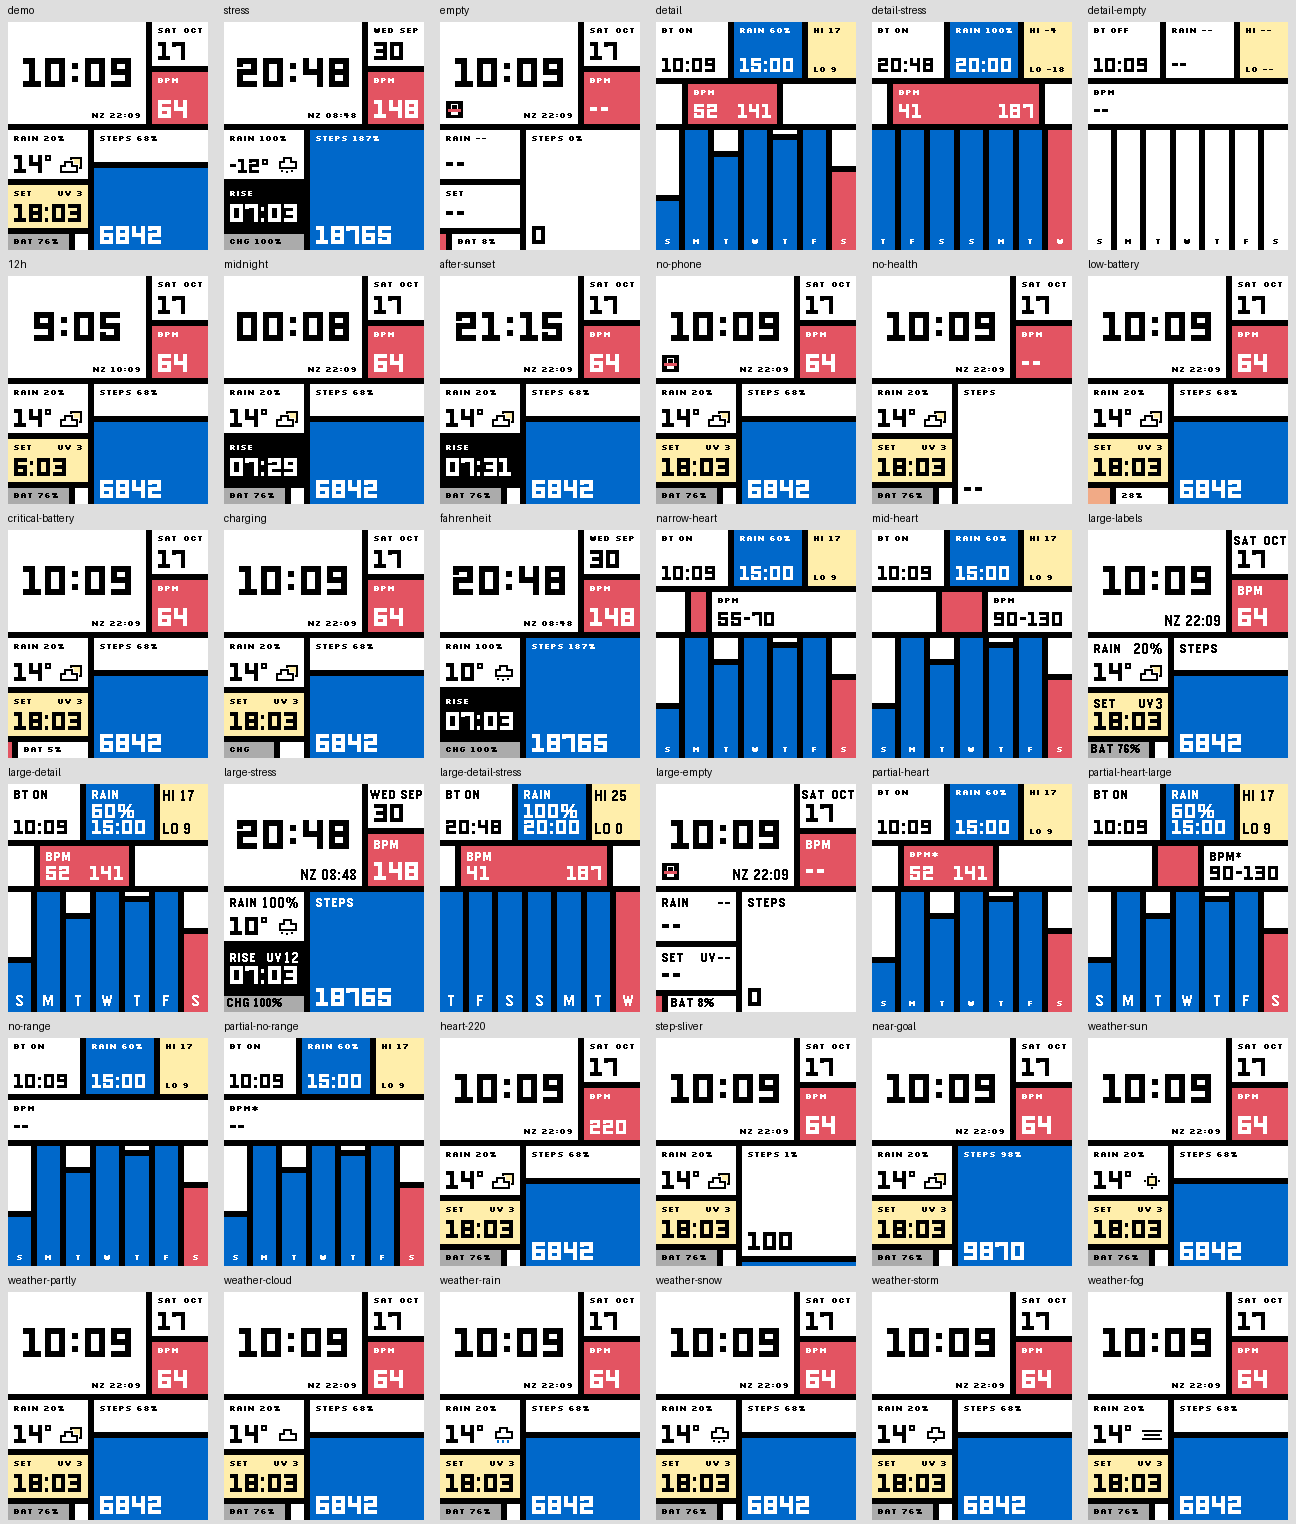
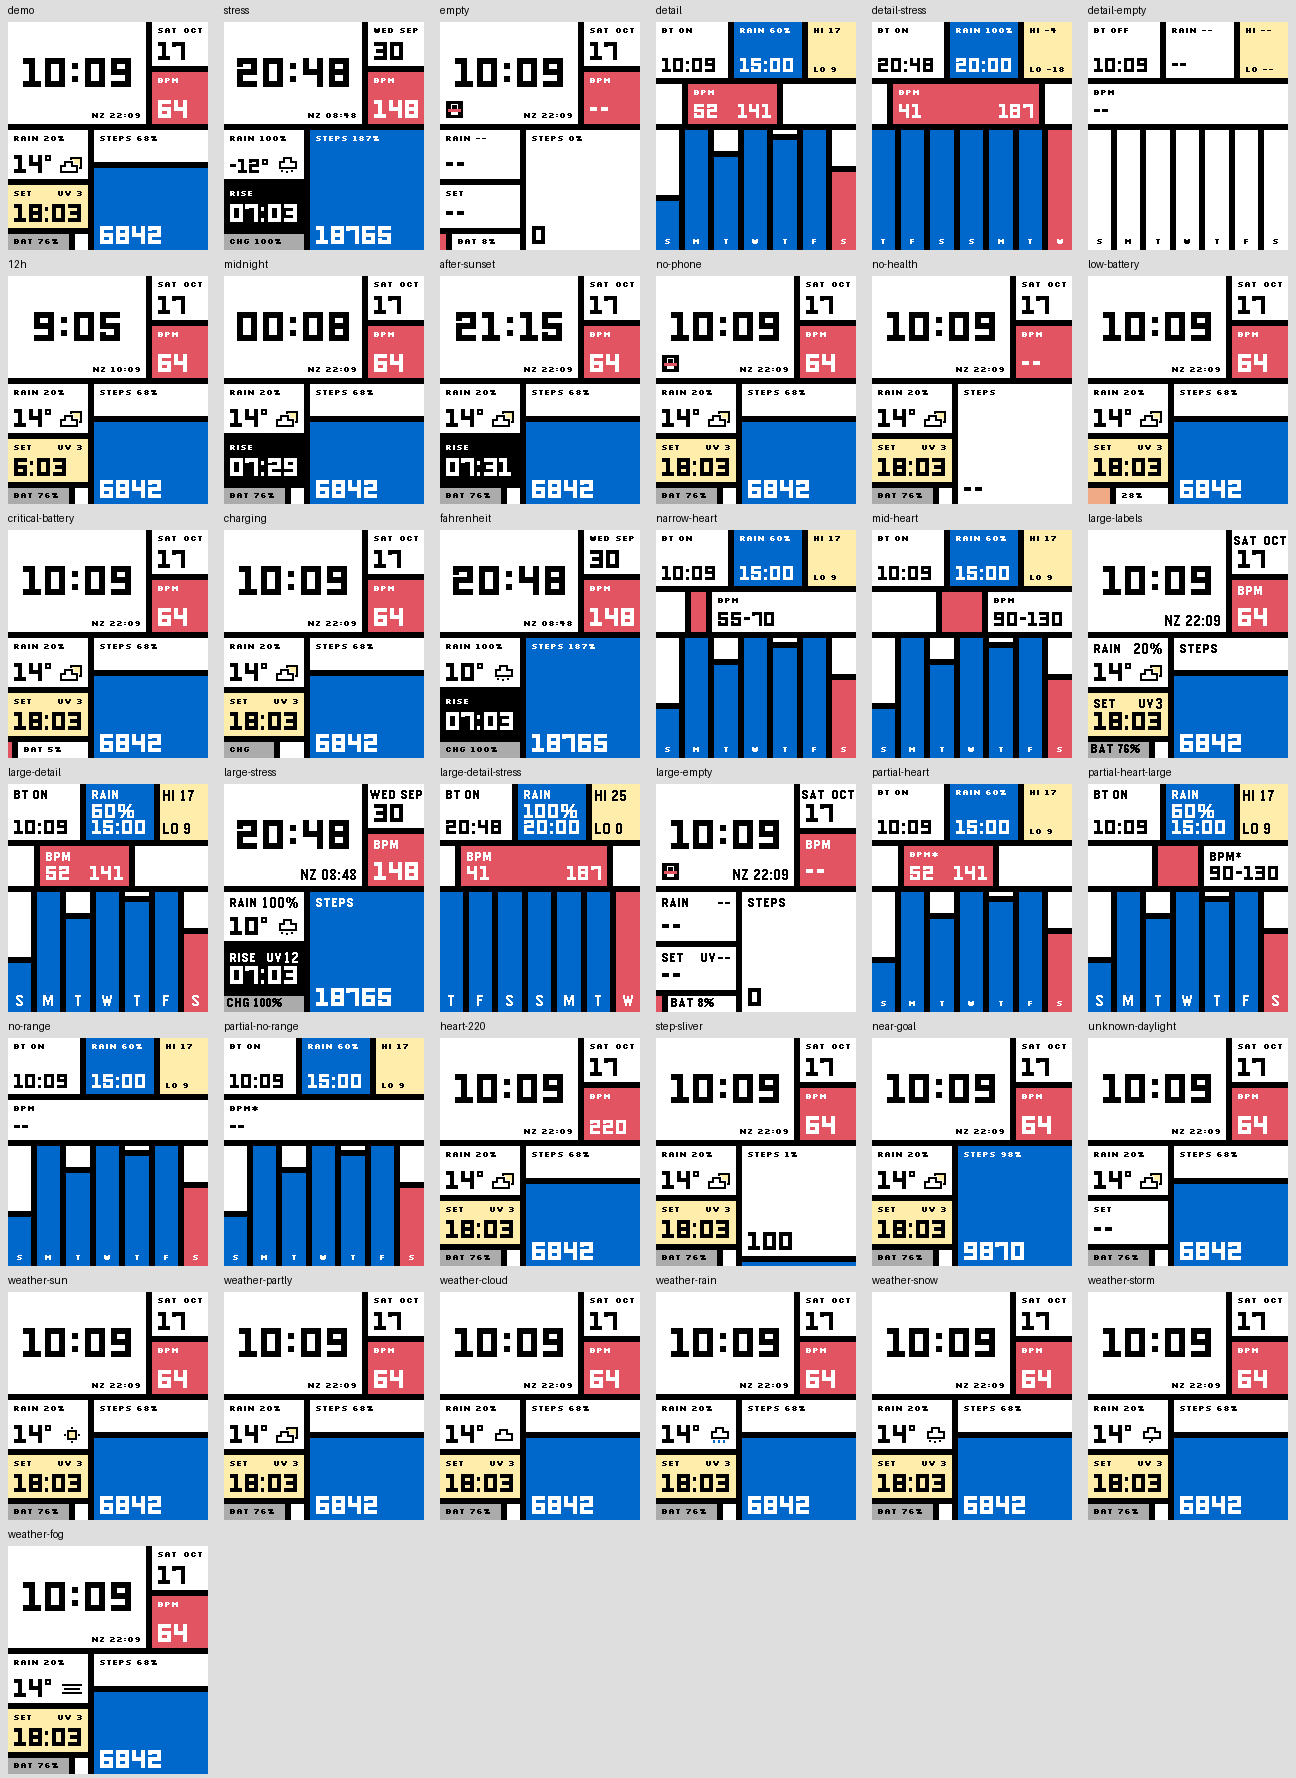
Use shared behaviour APIs and emulator utilities from kit 2.2.0

diff --git a/src/c/lab_data.c b/src/c/lab_data.c
@@ -8,15 +8,11 @@ static int preview_int(const char *name,int fallback) {
 }
 #endif
 
-#ifndef LAB_HOST_RENDER
 #include "kit/kit.h"
-#endif
 
 #define DEMO_EPOCH 1792228140    // Sat 17 Oct 2026 10:09 BST (09:09 UTC)
 #define STRESS_EPOCH 1790797680  // Wed 30 Sep 2026 20:48 BST (19:48 UTC)
 #define DEMO_UTC_OFFSET 3600     // the demo/stress clock is UK summer time
-#define KNOWN_NEW_MOON 947182440 // 2000-01-06 18:14 UTC
-#define SYNODIC_SECONDS 2551443
 
 static const uint16_t DEMO_STEPS_BY_HOUR[24] = {
   0, 0, 0, 0, 0, 0, 120, 980, 1640, 2612, 1490
@@ -60,64 +56,12 @@ static const uint8_t STRESS_HR_BY_HOUR[24] = {
   151, 148
 };
 
-// --- Calendar helpers (NZ daylight saving, ported from Signal Deck) --------
-
-static int day_of_week(int year, int month, int day) {
-  static const int offsets[] = {0, 3, 2, 5, 0, 3, 5, 1, 4, 6, 2, 4};
-  if (month < 3) {
-    year--;
-  }
-  return (year + year / 4 - year / 100 + year / 400 + offsets[month - 1] + day) % 7;
-}
-
-static int first_weekday_in_month(int year, int month, int weekday) {
-  return 1 + ((weekday - day_of_week(year, month, 1) + 7) % 7);
-}
-
-static int last_weekday_in_month(int year, int month, int last_day, int weekday) {
-  return last_day - ((day_of_week(year, month, last_day) - weekday + 7) % 7);
-}
-
-static bool nz_is_dst(int year, int month, int day) {
-  if (month >= 10 || month <= 3) {
-    return true;
-  }
-  if (month >= 5 && month <= 8) {
-    return false;
-  }
-  if (month == 9) {
-    return day >= last_weekday_in_month(year, 9, 30, 0);
-  }
-  return day < first_weekday_in_month(year, 4, 0);
-}
+// --- Shared calendar projection for fixed screenshot scenarios --------
 
 static void fill_world_time(LabData *d) {
-  snprintf(d->world_label, sizeof(d->world_label), "NZ");
-  time_t standard = d->epoch + 12 * 3600;
-  struct tm standard_tm = *gmtime(&standard);
-  int dst = nz_is_dst(standard_tm.tm_year + 1900, standard_tm.tm_mon + 1,
-                      standard_tm.tm_mday) ? 3600 : 0;
-  time_t world = standard + dst;
-  struct tm world_tm = *gmtime(&world);
-  d->world_hour = world_tm.tm_hour;
-  d->world_min = world_tm.tm_min;
-  if (world_tm.tm_year != d->now.tm_year) {
-    d->world_day_delta = world_tm.tm_year > d->now.tm_year ? 1 : -1;
-  } else {
-    d->world_day_delta = lab_clamp(world_tm.tm_yday - d->now.tm_yday, -1, 1);
-  }
+  kit_world_fill(d,0);
 }
 
-static void fill_moon(LabData *d) {
-  int32_t since = (int32_t)((d->epoch - KNOWN_NEW_MOON) % SYNODIC_SECONDS);
-  if (since < 0) {
-    since += SYNODIC_SECONDS;
-  }
-  d->moon_phase_e3 = (int)(((int64_t)since * 1000) / SYNODIC_SECONDS);
-  int32_t angle = (int32_t)(((int64_t)since * TRIG_MAX_ANGLE) / SYNODIC_SECONDS);
-  d->moon_illum_pct =
-      (int)(((int64_t)(TRIG_MAX_RATIO - cos_lookup(angle)) * 50) / TRIG_MAX_RATIO);
-}
 
 static void set_fixed_time(LabData *d, time_t epoch) {
   d->epoch = epoch;
@@ -221,18 +165,6 @@ __attribute__((unused)) static void fill_empty(LabData *d) {
   d->weather_code = -1;
 }
 
-#ifndef LAB_HOST_RENDER
-__attribute__((unused)) static void fill_live(LabData *d) {
-  d->epoch = time(NULL);
-  d->now = *localtime(&d->epoch);
-  d->minute_of_day = d->now.tm_hour * 60 + d->now.tm_min;
-  BatteryChargeState battery = battery_state_service_peek();
-  d->battery_pct = battery.charge_percent;
-  d->charging = battery.is_charging;
-  d->bt_connected = connection_service_peek_pebble_app_connection();
-  kit_fill(d);
-}
-#endif
 
 void lab_data_refresh(LabData *d) {
   memset(d, 0, sizeof(*d));
@@ -241,8 +173,7 @@ void lab_data_refresh(LabData *d) {
 #elif LAB_SCENARIO == LAB_EMPTY
   fill_empty(d);
 #elif LAB_SCENARIO == LAB_LIVE
-  fill_live(d);
-  fill_moon(d);
+  kit_live_data_refresh(d);
   return;
 #else
   fill_demo(d);
@@ -273,7 +204,7 @@ void lab_data_refresh(LabData *d) {
   }
 #endif
   fill_world_time(d);
-  fill_moon(d);
+  kit_moon_fill(d);
   // Deterministic forecast extensions for the lab's three screenshot scenes.
   d->tomorrow_sunrise_min = d->sunrise_min + 2;
   d->tomorrow_sunset_min = d->sunset_min - 2;
@@ -281,6 +212,11 @@ void lab_data_refresh(LabData *d) {
   d->next_sun_day_delta = d->minute_of_day >= d->sunset_min ? 1 : 0;
   d->next_sun_min = d->next_sun_is_set ? d->sunset_min :
       (d->next_sun_day_delta ? d->tomorrow_sunrise_min : d->sunrise_min);
+#ifdef LAB_HOST_RENDER
+  if(preview_int("MONDRIAN_NO_SUN",0)) {
+    d->sunrise_min=d->sunset_min=d->tomorrow_sunrise_min=d->tomorrow_sunset_min=d->next_sun_min=-1;
+  }
+#endif
   d->uv_max_x10 = d->uv_x10;
   d->rolling_count = d->weather_ok ? 24 : 0;
   for (int i = 0; i < 24; ++i) {

diff --git a/src/c/design.c b/src/c/design.c
@@ -1,4 +1,5 @@
 #include "lab.h"
+#include "kit/kit_calc.h"
 #include "kit/kit_core.h"
 
 // Mondrian: a De Stijl composition where every rectangle is a metric.
@@ -58,7 +59,7 @@ static Face s_face[6];
 static bool s_large_labels;
 static FaceId caption(void) { return s_large_labels ? FACE_G14 : FACE_PX8; }
 static int display_temp(const LabData *d, int c) {
-  return d->temp_fahrenheit ? (c * 9 + (c >= 0 ? 2 : -2)) / 5 + 32 : c;
+  return kit_temperature(c,d->temp_fahrenheit);
 }
 
 static void load(void) {
@@ -347,10 +348,10 @@ static void draw_weather(GContext *ctx, const LabData *d) {
 // black plane after sunset, white when the sun times are unknown.
 static void draw_sun(GContext *ctx, const LabData *d) {
   GRect c = R_SUN;
-  bool day = d->weather_ok && d->minute_of_day >= d->sunrise_min &&
-             d->minute_of_day < d->sunset_min;
+  KitDaylight light=kit_daylight_state(d->weather_ok,d->minute_of_day,d->sunrise_min,d->sunset_min);
+  bool day=light==KitDaylightDay;
   GColor ink = GColorBlack;
-  if (d->weather_ok) {
+  if (light!=KitDaylightUnknown) {
     fill(ctx, c, day ? COL_YELLOW : GColorBlack);
     ink = day ? GColorBlack : GColorWhite;
   }
@@ -518,18 +519,10 @@ static void detail_time(GContext *ctx, const LabData *d) {
 // rain is likely (50% or more), like the face's sun cell turns with the day.
 static void detail_rain(GContext *ctx, const LabData *d) {
   GRect c = D_RAIN;
-  int peak = -1;
-  int peak_hour = 0;
-  int peak_day = 0;
-  if (d->weather_ok) {
-    for (int i = 0; i < d->rolling_count; i++) {
-      if (d->rolling_rain[i] > peak) {
-        peak = d->rolling_rain[i];
-        peak_hour = d->rolling_hour[i];
-        peak_day = d->rolling_day[i];
-      }
-    }
-  }
+  int index=d->weather_ok ? kit_forecast_rain_peak(d->rolling_rain,d->rolling_count,0,0) : -1;
+  int peak=index<0 ? -1 : d->rolling_rain[index];
+  int peak_hour=index<0 ? 0 : d->rolling_hour[index];
+  int peak_day=index<0 ? 0 : d->rolling_day[index];
   char lab[16];
   char when[8];
   if (peak < 0) {

diff --git a/tools/render_scenes.py b/tools/render_scenes.py
@@ -32,6 +32,7 @@ scenes=[('demo',0,False,{}),('stress',1,False,{}),('empty',2,False,{}),
         ('partial-no-range',0,True,{'NO_RANGE':1,'HR_PARTIAL':1}),
         ('heart-220',0,False,{'HR':220}),('step-sliver',0,False,{'STEPS':100}),
         ('near-goal',0,False,{'STEPS':9870})]
+scenes.append(('unknown-daylight',0,False,{'NO_SUN':1}))
 for name,code in [('sun',0),('partly',2),('cloud',3),('rain',63),('snow',73),('storm',95),('fog',45)]:
     scenes.append(('weather-'+name,0,False,{'WEATHER_CODE':code}))
 def render(scene):
@@ -50,6 +51,7 @@ for name in ['demo','detail','large-labels','large-detail']:
 reference=Image.open(LAB/'designs/05-mondrian/shots/demo.png').convert('RGB')
 actual=Image.open(SHOTS/'demo.png').convert('RGB')
 assert ImageChops.difference(reference,actual).getbbox() is None,'Default art changed from original'
+assert Image.open(SHOTS/'unknown-daylight.png').convert('RGB').getpixel((74,195))==(255,255,255), 'Unknown daylight must retain a neutral sun cell'
 cols=6;rows=(len(scenes)+cols-1)//cols
 sheet=Image.new('RGB',(cols*216,rows*254),'#dedede');draw=ImageDraw.Draw(sheet)
 for i,(name,*_) in enumerate(scenes):

diff --git a/tools/emulator_smoke.py b/tools/emulator_smoke.py
@@ -1,0 +1,8 @@
+#!/usr/bin/env python3
+"""Run with pebble-tool's Python. Shared checks; custom visual checks stay local."""
+from pathlib import Path
+import runpy
+import sys
+root=Path(__file__).resolve().parents[1]
+sys.path.insert(0,str(root/'shared-kit/tools'))
+runpy.run_path(str(root/'shared-kit/tools/emulator_smoke.py'))['run_smoke'](root)

diff --git a/AGENTS.md b/AGENTS.md
@@ -7,8 +7,8 @@ messaging or lifecycle code. Initialize missing dependencies with
 ## Decide where a change belongs
 
 - Shared health/HR history, weather validation/cache/retries, settings parsing,
-  world clocks, AppMessage transport, touch/lifecycle/timing, common drawing
-  helpers and LabData/LabDesign contract changes belong in `shared-kit`.
+  world clocks, AppMessage transport, touch/lifecycle/timing, shared calculations
+  and LabData/LabDesign contract changes belong in `shared-kit`.
 - This face's layout, artwork, wording, scenarios, assets, exposed settings,
   UUID and app version belong in this repository. Its phone configuration is
   `src/pkjs/app-config.js`; retain its existing storageKey.
@@ -75,3 +75,23 @@ build locally; Pebble store publication still requires the user's instruction.
 Do not change Signal Deck as part of kit work; it has not been migrated.
 
 Commit author: Liam Cordelle <liamcordelle1234@gmail.com>.
+
+## Shared behaviour and runtime checks
+
+Use shared-kit `kit_calc.h` for moon phase, temperature/event-time formatting,
+forecast searches, daylight state and activity estimates. `kit_data.c` owns
+live-data assembly, moon illumination and world-time projection. Keep fixture
+values/preview overrides here, but call the shared calculations. Unknown sun
+times are distinct from night; goal times are estimates and goal-day counts
+are not streaks. New/default step goals are 8,000; preserve valid saved goals.
+
+The kit focuses on data, behaviour and test support. Keep artwork, layout,
+fonts, drawing and face-specific wording here; existing shared drawing helpers
+remain compatibility utilities, not a requirement to grow a drawing framework.
+
+Run `tools/emulator_smoke.py` with pebble-tool's Python for the shared fresh
+default, saved-goal, explicit restart, synthetic weather/cache and detail checks.
+It uses `shared-kit/tools/emulator.py`, restores the SDK profile and stops only
+its owned session. Keep face-specific visual assertions in local checkers.
+Use the shared session/transport/fixture/log APIs for new emulator scenarios;
+do not copy their implementations or hardcode a kit version in log assertions.

diff --git a/KIT_MIGRATION.md b/KIT_MIGRATION.md
@@ -41,3 +41,18 @@ face fallbacks use 8,000 steps. Valid saved goals are preserved. Protocol keys,
 persistence layouts and explicit screenshot fixtures are unchanged. Shared and
 consumer tests, all five render suites and fresh-profile QEMU checks cover the
 new default and a saved 12,500-step goal across explicit stop/start.
+
+## Shared behaviour extraction — kit 2.2.0
+
+Moon/live-data assembly, temperature/event clocks, bounded forecast queries,
+daylight state and activity estimates now use the shared kit. Drawing and
+scenario fixtures remain here. Underground Fahrenheit now rounds consistently;
+unknown daylight stays unknown and activity math uses 64-bit intermediates.
+The thin tools/emulator_smoke.py entrypoint uses shared profile/transport/
+fixture/log utilities. Existing face-specific visual checkers remain available.
+
+Final dependency: `c737afcfadf8cdd62dec58941cf8718fed0d6017` (kit 2.2.0). Shared/native/phone
+tests, all 271 cross-consumer scenes and the local shared emulator smoke pass.
+Runtime evidence is in shots/emulator-smoke/result.json; fresh 8,000 and saved
+12,500 goals, cold weather-cache restoration, detail timeout and clean exits
+are verified. The original SDK profile was restored.

diff --git a/README.md b/README.md
@@ -206,3 +206,11 @@ and QEMU stopped. See `shots/history-*`. Publishing metadata and downloaded
 artifact verification are recorded in `store/published.json`.
 
 Release 1.0.7: built with the shared kit 2.0.0; artwork and settings are preserved.
+
+## Shared behaviour maintenance
+
+This release uses kit 2.2.0 for shared data and calculations.
+Artwork and explicit render fixtures remain face-owned. Run
+`tools/emulator_smoke.py` with pebble-tool's Python for common runtime checks;
+local emulator/visual checkers retain the face-specific assertions.
+The published 8,000-step-default release is recorded in store/published.json.
